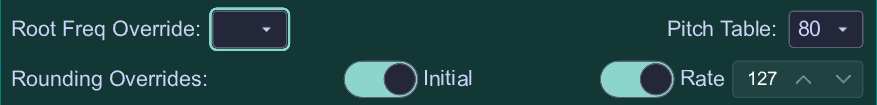
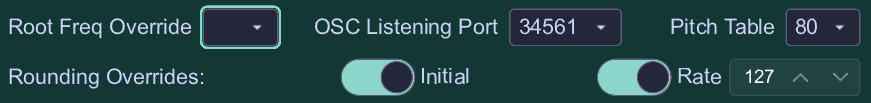
OSC Listening Port option

diff --git a/src/osc.rs b/src/osc.rs
@@ -16,7 +16,7 @@ use crate::tuning_params::TuningParams;
 ///             [1, listening_port] at least once every 2 seconds to maintain connection
 ///         PitchGrid will send /pitchgrid/heartbeat back to all registered clients.
 pub struct Osc {
-    callbacks: Arc<dyn OscCallbacks>,
+    callbacks: Option<Arc<dyn OscCallbacks>>,
     /// Saves Controller.osc from having to be an Arc<Mutex>>.
     inner: Mutex<OscInner>,
     last_ack_time: Arc<Mutex<Option<Instant>>>,
@@ -25,7 +25,7 @@ pub struct Osc {
 impl Osc {
     pub fn new() -> Self {
         Self {
-            callbacks: Arc::new(()),
+            callbacks: None,
             inner: Mutex::new(OscInner { is_running: false, stopper_senders: vec![] }),
             last_ack_time: Arc::new(Mutex::new(None)),
         }
@@ -56,7 +56,9 @@ impl Osc {
         }
         LISTENING_PORT.store(listening_port, Ordering::Relaxed);
         if bouncing {
-            self.start(self.callbacks.clone());
+            // The unwrap() is safe because it's only called when bouncing,
+            // which means start was previously called and set callbacks to Some.
+            self.start(self.callbacks.clone().unwrap());
         }
     }
 
@@ -71,7 +73,7 @@ impl Osc {
         if self.is_pitchgrid_connected() {
             panic!("PitchGrid is already connected.");
         }
-        self.callbacks = callbacks.clone();
+        self.callbacks = Some(callbacks.clone());
         let mut stopper_receivers: Vec<mpsc::Receiver<()>> = vec![];
         let mut inner = self.inner.lock().unwrap();
         for _ in 0..3 {
@@ -284,7 +286,7 @@ impl Osc {
     /// PitchGrid will send us messages if we send a heartbeat message at least every 2 seconds.
     /// So send PitchGrid a heartbeat message every second.
     fn send_heartbeats(socket: UdpSocket, stopper_receiver: mpsc::Receiver<()>) {
-        // println!("Osc.send_heartbeats: starting");
+        // println!("Osc.send_heartbeats: Starting with listening port {}", Self::listening_port());
         let msg_buf = encoder::encode(&OscPacket::Message(OscMessage {
             addr: HEARTBEAT_ADDR.to_string(),
             args: vec![OscType::Int(1),
@@ -295,7 +297,6 @@ impl Osc {
             // println!("Osc.send_heartbeats: sending heartbeat message to {}", socket_to_addr);
             match socket.send_to(&msg_buf, socket_to_addr) {
                 Ok(_bytes_sent) => {
-                    println!("Osc.send_heartbeats: sent {:?}", msg_buf);
                     // println!("Osc.send_heartbeats: sent {} bytes", bytes_sent);
                 }
                 Err(_e) => {

diff --git a/README.md b/README.md
@@ -98,6 +98,12 @@ The Root Frequency specified in PitchGrid, which is Middle C for most tuning pre
 
 When a root frequency has been overridden, the overriding frequency will be shown in PitchGrid-Continuum Bridge's tuning parameters display. By design, Root Freq Override is not saved to PCB's settings: the assumption is that, for safety, the player should consider which override, if any, to use each time PCB is loaded.
 
+### OSC Listening Port
+
+<img src="images\OSC Listening Port.png" alt="OSC Listening Port" style="zoom: 80%;" />
+
+The OSC port on which PitchGrid-Continuum Bridge is to listen for tunings from PitchGrid.  Unless you have will have more than one application listening for PitchGrid tunings at once, which PitchGrid supports, you can probably safely leave this to the default, 34561.  The OSC port on which PitchGrid listens for heartbeats from applications, 34562, is of course not available for use by PCB as its own listening port.
+
 ### Pitch Table
 
 <img src="images\Pitch Table.png" alt="Pitch Table" style="zoom: 80%;" />The identifier of the pitch table to which the tuning is to be uploaded may be selected from the range 80 to 87, which the Haken firmware reserves for custom tuning grids.  Unless you will be using the instrument's custom tuning grids for purposes other than receiving PitchGrid tunings via PitchGrid-Continuum Bridge, you can safely leave this to the default, 80.
